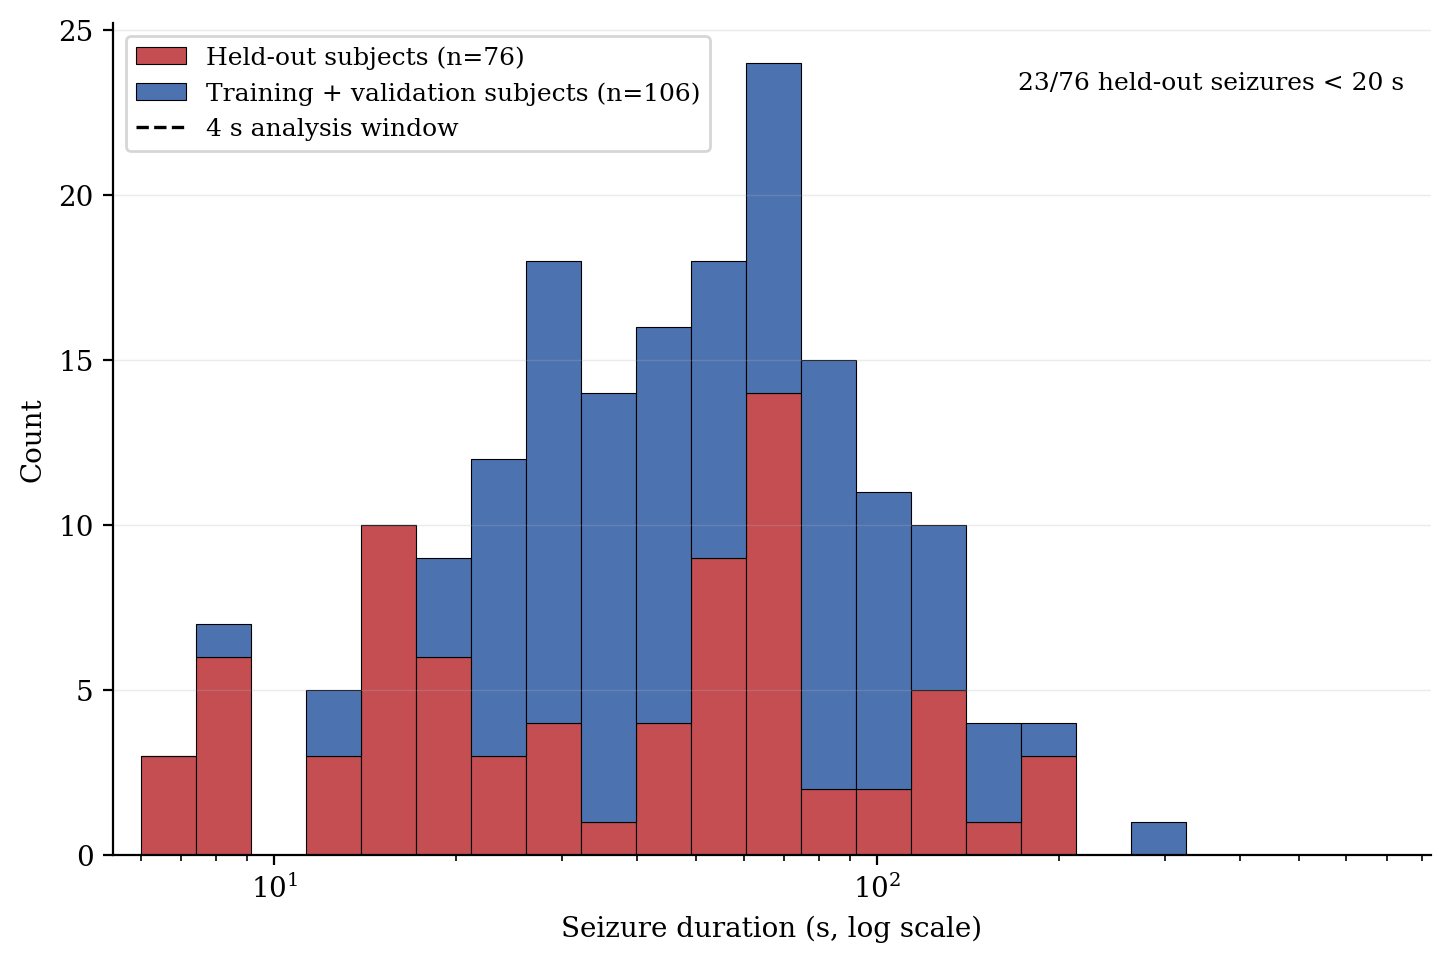
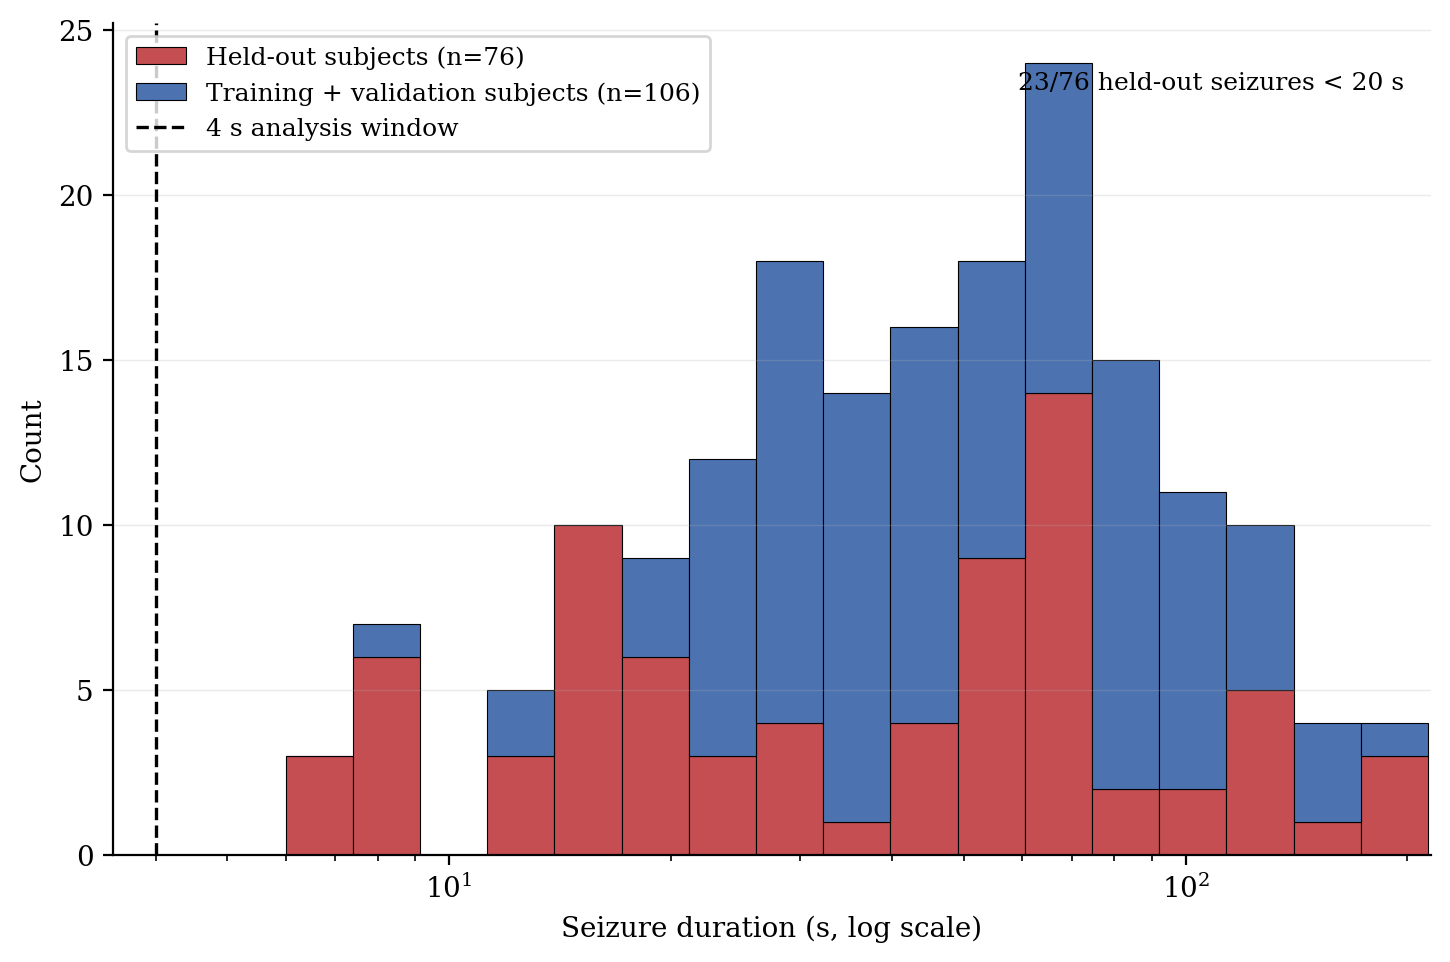
Round 5: fix seven figures, correct labeling docstring claim
- Fig 2.3: normalise raw/preprocessed spectra to their own peak (dB) instead of
  clipping the shared y-axis, so the 60 Hz notch and 60 Hz roll-off both show
  without falsely implying the band-pass stops at 30 Hz.
- Fig 3.4: rename internal branch shorthand (zrecon/zlatent/zgamma) to plain
  labels; add szcore_eval.per_interval_match to report the scorer's own
  per-interval match assignment instead of reading it off the picture.
- Fig 2.10: rebuild as a ~5 minute zoom on one annotated seizure (was a
  near-duplicate of Fig 3.4's full-hour panel); drop "(recomputed)" from the
  legend.
- Fig 3.10: set the trace offset from each channel's peak-to-peak range over
  the whole view (not median std) so all six traces stay separated even at
  their largest excursions inside the false-positive interval; log whether the
  panel is raw or filtered (raw).
- Fig 3.15: move the in-image explanatory sentence to console output; give the
  diffuse/generalized group its own palette colour (DIFFUSE_GROUP) instead of
  reusing BEST_ACHIEVABLE's purple; log that synthetic_spread.csv's grid
  (1,2,4,12,18) genuinely differs from the discrimination experiment's
  pre-registered grid (1,2,4,8,12).
- Fig 2.2: extend the x-axis lower limit to 3.5 s so the 4 s analysis-window
  reference line is drawn; clip the upper limit to just past the longest
  seizure.
- Fig 2.4: rotate panel (d)'s circular layout by +90 degrees so node 0
  (FP1-F7) starts at the top, matching panel (c)'s first row.
[…]

Changed region(s): [[0.0931, 0.0624, 0.9931, 0.9356], [0.5897, 0.9044, 0.6207, 0.9356]]

diff --git a/src/figures/fig2_10_changepoint_detection.py b/src/figures/fig2_10_changepoint_detection.py
@@ -1,6 +1,6 @@
 """
 fig2_10_changepoint_detection.py -- Fig 2.10, docs/FIGURE_ROUND4.md §3 ("build by
-recomputation").
+recomputation"), rebuilt as a zoom per docs/FIGURE_ROUND5.md §3.
 
 Fused anomaly score against time in minutes, for one continuous chb13 recording,
 recomputed end-to-end (see continuous_rescore.py) rather than read from the committed
@@ -9,6 +9,14 @@ values, and drift by the number of artifact-rejected windows, so they cannot sup
 real time axis. Detected change points (cpd_pipeline_v14.detect_changepoints, locked
 defaults, "at the reported operating point") as vertical lines; the annotated seizure
 shaded in the ictal colour.
+
+docs/FIGURE_ROUND5.md §3: this figure previously showed the same full hour as the bottom
+panel of Fig 3.4, differing only in vertical lines vs. shaded bands -- two chapters
+printing almost the same picture. Fig 2.10 sits in the methodology chapter and exists to
+show what change-point detection DOES, so it is now a ~5 minute zoom centred on one
+annotated seizure of the same recording (the mechanism -- pre-shift level, the shift,
+the bracketing change points -- is legible at this scale in a way the full hour is not).
+Fig 3.4 keeps the full hour.
 
 Does NOT import szcore_eval.build_timeline_masked (forbidden for this figure by R4 §3.1).
 """
@@ -35,6 +43,8 @@ RAW_DIR = Path("F:/Study/Thesis/Dataset/CHB-MIT")
 SUBJ = "chb13"
 EDF_NAME = "chb13_62.edf"
 MIN_MAG_PCT, PEN_MULT = 50, 2.0   # the reported operating point
+ZOOM_SEIZURE_IDX = 0              # which of chb13_62.edf's three seizures to zoom on
+ZOOM_WINDOW_S = 300.0             # ~5 minutes, centred on that seizure's midpoint
 OUT = ROOT / "figures" / "fig2_10_changepoint_detection.png"
 
 
@@ -43,7 +53,7 @@ def main():
     calib = CR.fit_calibration()
     result = CR.score_continuous_file(RAW_DIR / SUBJ / EDF_NAME, calib)
     fused = result["fused"]
-    t_min = result["t_seconds"] / 60.0
+    t_seconds = result["t_seconds"]
 
     cps, smoothed = V14.detect_changepoints(fused, PEN_MULT, min_mag_pct=MIN_MAG_PCT,
                                             local_win=15, inter_mask=None)
@@ -53,23 +63,36 @@ def main():
     this = next(e for e in edfs if e["fname"] == EDF_NAME)
     seizures = this["seizures"]   # chb13_62.edf carries three annotated seizures
 
+    onset_s, offset_s = seizures[ZOOM_SEIZURE_IDX]
+    mid = (onset_s + offset_s) / 2.0
+    view_t0 = max(0.0, mid - ZOOM_WINDOW_S / 2.0)
+    view_t1 = min(result["n_windows"] * 4, mid + ZOOM_WINDOW_S / 2.0)
+
     print(f"[Fig 2.10] {SUBJ}/{EDF_NAME}: {result['n_windows']} windows recomputed, "
          f"no artifact rejection")
-    print(f"[Fig 2.10] change points detected at the reported operating point "
-         f"(min_mag_pct={MIN_MAG_PCT}, pen_mult={PEN_MULT}): {len(cp_seconds)}")
-    print(f"[Fig 2.10] change point times (s): {cp_seconds}")
+    print(f"[Fig 2.10] change points detected at the reported operating point over the "
+         f"FULL recording (min_mag_pct={MIN_MAG_PCT}, pen_mult={PEN_MULT}): "
+         f"{len(cp_seconds)} -- {cp_seconds}")
     print(f"[Fig 2.10] annotated seizures (onset_s, offset_s): {seizures}")
+    print(f"[Fig 2.10] zoomed on seizure index {ZOOM_SEIZURE_IDX} "
+         f"(onset={onset_s}s, offset={offset_s}s); view window "
+         f"[{view_t0:.0f}, {view_t1:.0f}] s (~{ZOOM_WINDOW_S:.0f}s)")
+    cp_in_view = [c for c in cp_seconds if view_t0 <= c <= view_t1]
+    print(f"[Fig 2.10] change points inside the zoom window: {cp_in_view}")
 
-    fig, ax = plt.subplots(figsize=(11, 5.2))
-    ax.plot(t_min, fused, color="#4C72B0", lw=0.8, label="Fused anomaly score (recomputed)")
-    for i, (onset_s, offset_s) in enumerate(seizures):
-        ax.axvspan(onset_s / 60.0, offset_s / 60.0, color=ICTAL, alpha=0.25,
-                  label="Annotated seizure" if i == 0 else None)
-    for i, cs in enumerate(cp_seconds):
-        ax.axvline(cs / 60.0, color=DETECTED, lw=1.1, ls="--",
+    mask = (t_seconds >= view_t0) & (t_seconds <= view_t1)
+    t_s_view = t_seconds[mask]
+    fused_view = fused[mask]
+
+    fig, ax = plt.subplots(figsize=(9.5, 5.0))
+    ax.plot(t_s_view, fused_view, color="#4C72B0", lw=1.0, label="Fused anomaly score")
+    ax.axvspan(onset_s, offset_s, color=ICTAL, alpha=0.25, label="Annotated seizure")
+    for i, cs in enumerate(cp_in_view):
+        ax.axvline(cs, color=DETECTED, lw=1.3, ls="--",
                   label="Detected change point" if i == 0 else None)
 
-    ax.set_xlabel("Time (minutes)")
+    ax.set_xlim(view_t0, view_t1)
+    ax.set_xlabel("Time (s)")
     ax.set_ylabel("Fused anomaly score")
     ax.legend(fontsize=8, loc="upper right")
     ax.grid(alpha=0.25, lw=0.5)
@@ -81,7 +104,9 @@ def main():
     print(f"[saved] {OUT.resolve()}")
 
     print("\n[CAPTION] "
-         f"Recording: {SUBJ}/{EDF_NAME}. Scores were recomputed on the continuous "
+         f"Recording: {SUBJ}/{EDF_NAME}, zoomed to a ~5 minute window "
+         f"[{view_t0:.0f}, {view_t1:.0f}] s centred on the annotated seizure at "
+         f"[{onset_s},{offset_s}] s. Scores were recomputed on the continuous "
          "recording with every window retained (no artifact rejection), using the "
          "study's fitted checkpoint, z-score statistics, robust-z calibration and "
          "latent-space covariance; they are not the source of any reported number.")

diff --git a/src/dataprep/plot_raw_vs_preprocessed.py b/src/dataprep/plot_raw_vs_preprocessed.py
@@ -202,39 +202,41 @@ def build_figure(raw, subject_id, edf_name, start_samp, dur_samp, processed_dir,
     # near Nyquist (~1e-19), which alone stretched the y-axis to ~21 empty decades and made
     # the real 60 Hz notch (which bottoms out around 1e-10, not 1e-19) invisible by
     # comparison. Fix: slice to the displayed 0-80 Hz band BEFORE autoscaling.
+    # docs/FIGURE_ROUND5.md §1: clipping the shared y-axis at a fixed floor (the R3 fix)
+    # cut the preprocessed curve off above ~30 Hz, making it look like the band-pass
+    # stops at 30 Hz rather than 60 Hz -- contradicting Table 2.5's 30-60 Hz gamma band.
+    # A lower floor is not the fix: the raw and preprocessed traces sit ~2-3 decades
+    # apart in absolute power (the z-scoring step rescales amplitude), so no single
+    # shared range shows both curves' full extent without truncating one of them.
+    # Fix: normalise EACH spectrum to its OWN peak (dB relative to that trace's own
+    # maximum) so both curves occupy the same range regardless of their absolute
+    # power difference -- the panel then shows exactly what it exists to show: the
+    # 60 Hz peak present in the raw trace and absent after filtering, and the roll-off
+    # above 60 Hz. Which normalisation was used is stated in the axis label itself.
     spec_i = channels.index(SPECTRUM_CHANNEL)
     f_raw_full, pxx_raw_full = welch(raw_uV[spec_i], fs=P.FS, nperseg=min(1024, dur_samp))
     f_pre_full, pxx_pre_full = welch(z[spec_i], fs=P.FS, nperseg=min(1024, dur_samp))
     band = f_raw_full <= 80.0
     f_raw, pxx_raw = f_raw_full[band], pxx_raw_full[band]
     f_pre, pxx_pre = f_pre_full[band], pxx_pre_full[band]
-    ax_psd.semilogy(f_raw, pxx_raw, color="#888888", lw=1.1, label=f"Raw ({SPECTRUM_CHANNEL})")
-    ax_psd.semilogy(f_pre, pxx_pre, color=INTERICTAL, lw=1.1,
-                    label=f"Preprocessed ({SPECTRUM_CHANNEL})")
+
+    db_raw = 10 * np.log10(pxx_raw / pxx_raw.max())
+    db_pre = 10 * np.log10(pxx_pre / pxx_pre.max())
+    print(f"[Fig 2.3 / panel c] normalisation: each trace expressed in dB relative to its "
+         f"OWN maximum (raw peak={pxx_raw.max():.3e}, preprocessed peak={pxx_pre.max():.3e} "
+         f"-- {pxx_raw.max() / pxx_pre.max():.1f}x apart in absolute power, which is why a "
+         f"shared floor could not show both curves)")
+
+    ax_psd.plot(f_raw, db_raw, color="#888888", lw=1.1, label=f"Raw ({SPECTRUM_CHANNEL})")
+    ax_psd.plot(f_pre, db_pre, color=INTERICTAL, lw=1.1,
+               label=f"Preprocessed ({SPECTRUM_CHANNEL})")
     ax_psd.axvline(60.0, color="#C44E52", ls="--", lw=1.0, label="60 Hz")
     ax_psd.set_xlim(0, 80)
-
-    ymin_data = min(pxx_raw.min(), pxx_pre.min())
-    ymax_data = max(pxx_raw.max(), pxx_pre.max())
-    y_top = 10 ** np.ceil(np.log10(ymax_data))
-    y_bottom = 10 ** np.floor(np.log10(ymin_data))
-    decades = np.log10(y_top) - np.log10(y_bottom)
-    if decades > 8:
-        # Still wider than "about six decades" (brief §1) with BOTH the raw curve's DC
-        # peak and the true 60 Hz notch floor kept on-screen -- clipping either away would
-        # hide a real feature the panel exists to show, so the floor is raised only enough
-        # to bring the span to 8 decades (closest defensible approach to "about six" that
-        # does not crop the notch minimum itself, which sits within 2 decades of that floor).
-        y_bottom = y_top / 10 ** 8
-        decades = 8.0
-    ax_psd.set_ylim(y_bottom, y_top)
-    print(f"[Fig 2.3 / panel c] y-axis clipped to {decades:.0f} decades "
-         f"[{y_bottom:.0e}, {y_top:.0e}] (was ~21 decades when autoscale saw the "
-         f"off-screen near-Nyquist floor); data range in the displayed 0-80 Hz band is "
-         f"[{ymin_data:.2e}, {ymax_data:.2e}]")
+    y_bottom = min(db_raw.min(), db_pre.min())
+    ax_psd.set_ylim(max(y_bottom, -80.0) - 2, 3)
 
     ax_psd.set_xlabel("Frequency (Hz)")
-    ax_psd.set_ylabel("Power spectral density (log scale)")
+    ax_psd.set_ylabel("Power spectral density (dB relative to each trace's own peak)")
     ax_psd.set_title("(c)")
     ax_psd.legend(fontsize=8, loc="upper right", framealpha=1.0)
 

diff --git a/src/figures/fig3_15_diffuseness.py b/src/figures/fig3_15_diffuseness.py
@@ -48,7 +48,7 @@ import matplotlib
 matplotlib.use("Agg")
 import matplotlib.pyplot as plt
 
-from palette import INTERICTAL, ICTAL, apply_rc
+from palette import INTERICTAL, ICTAL, DIFFUSE_GROUP, apply_rc
 
 ROOT = Path(_src).parent
 SYNTH_CSV = ROOT / "results" / "attribution_v6" / "synthetic_spread.csv"
@@ -83,6 +83,18 @@ def main():
     test_panel = synth[(synth.panel == "TEST") & (np.isclose(synth.alpha, 2.0))].sort_values("n_injected")
     if test_panel.empty:
         raise SystemExit(f"Fig 3.15: no TEST/alpha=2.0 rows in {SYNTH_CSV} -- stop")
+    # docs/FIGURE_ROUND5.md §5: synthetic_spread.csv's own grid is {1,2,4,12,18}, not
+    # {1,2,4,8,12} -- the pre-registered grid for the DISCRIMINATION experiment
+    # (synthetic_sanity.csv / docs/ATTRIBUTION_REPORT_PACK.md §2.6). The spread
+    # (diffuseness) experiment was run on its own, different grid
+    # (docs/ATTRIBUTION_REPORT_PACK.md §3.5 quotes it at |S|=1,2,4,12,18); this is a
+    # fact about that experiment's design, not a missing point, and no point at 8 is
+    # added here to make the two grids agree.
+    grid_here = sorted(int(x) for x in test_panel.n_injected.unique())
+    print(f"[Fig 3.15] synthetic_spread.csv injected-channel grid (TEST, alpha=2.0): "
+         f"{grid_here} -- differs from the discrimination experiment's pre-registered "
+         f"grid [1, 2, 4, 8, 12] (synthetic_sanity.csv); the two experiments were run "
+         f"on different grids, this is not an omission")
 
     summ = pd.read_csv(SUMMARY_CSV)
     row = summ[summ.panel == "spread focal vs generalized"]
@@ -144,11 +156,11 @@ def main():
     ax.axvline(divider_x, color="0.75", lw=1.0, ls=":", zorder=1)
 
     # Real diffuse (generalized) points -- categorical strip, jittered in x only.
-    ax.scatter(DIFFUSE_X + jitter_gen, persz_gen.spread, color="#6A3D9A", s=26, alpha=0.75,
+    ax.scatter(DIFFUSE_X + jitter_gen, persz_gen.spread, color=DIFFUSE_GROUP, s=26, alpha=0.75,
               edgecolor="black", linewidth=0.3,
               label=f"Real, diffuse / generalized (per seizure, n={len(persz_gen)})", zorder=4)
     ax.plot([DIFFUSE_X - JITTER_HALF_WIDTH - 0.35, DIFFUSE_X + JITTER_HALF_WIDTH + 0.35],
-           [generalized, generalized], color="#6A3D9A", lw=2.2, solid_capstyle="butt", zorder=5,
+           [generalized, generalized], color=DIFFUSE_GROUP, lw=2.2, solid_capstyle="butt", zorder=5,
            label=f"Diffuse/generalized group mean ({generalized:.4f})")
 
     ax.set_xticks(NUMERIC_TICKS + [DIFFUSE_X])
@@ -158,14 +170,12 @@ def main():
     ax.set_xlabel("Number of annotated channels")
     ax.set_ylabel("Diffuseness (spread)")
 
-    ax.text(0.5, 0.02, f"generalized mean sits LOWER than focal "
-           f"({generalized:.4f} < {focal:.4f}, one-sided p={p_perm:.3f}) "
-           "-- the wrong direction for the hypothesis",
-           transform=ax.transAxes, ha="center", va="bottom", fontsize=8.5, color="0.25")
-
-    # No figure number / descriptive title, and no restated-caption text box
-    # on the image (brief §1 rule 5) -- the focal-vs-generalized comparison
-    # is printed to console above and belongs in the report's caption.
+    # docs/FIGURE_ROUND5.md §5: the explanatory sentence used to sit inside the image as
+    # an axes text box. No figure in this report carries a sentence of prose inside the
+    # axes -- moved out, printed to console below as caption text instead.
+    print(f"[CAPTION] generalized mean sits LOWER than focal "
+         f"({generalized:.4f} < {focal:.4f}, one-sided p={p_perm:.3f}) -- the wrong "
+         "direction for the hypothesis.")
     ax.legend(fontsize=7.8, loc="upper center", ncol=2)
     ax.grid(alpha=0.25, lw=0.5)
 

diff --git a/src/figures/fig3_10_false_positive_eeg.py b/src/figures/fig3_10_false_positive_eeg.py
@@ -99,6 +99,12 @@ def main():
     ax_score.grid(alpha=0.2, lw=0.4)
 
     # ---- panel (b): raw EEG, six channels, concurrent with the score window ----
+    # docs/FIGURE_ROUND5.md §4: P.open_edf only reads and renames channels -- it applies
+    # no band-pass/notch filtering (that happens later, in the windowing pipeline, not
+    # here) -- so this panel shows the RAW recording, not the band-pass filtered signal.
+    # The microvolt scale bar confirms it is not the z-scored version either.
+    print("[Fig 3.10] signal panel: RAW recording (P.open_edf applies no filtering; "
+         "amplitude in microvolts, not the z-scored version)")
     raw = P.open_edf(RAW_DIR / SUBJ / EDF_NAME)
     channels = P.COMMON_CHANNELS[:N_CHANNELS]
     ch_idx = [raw.ch_names.index(c) for c in channels]
@@ -106,7 +112,17 @@ def main():
     seg_uV = raw.get_data(picks=ch_idx, start=s0, stop=s1) * 1e6
     t_axis = view_t0 + np.arange(seg_uV.shape[1]) / P.FS
 
-    offset = 4.0 * np.median(np.std(seg_uV, axis=1))
+    # docs/FIGURE_ROUND5.md §4: the six traces were overlapping into a solid block. An
+    # offset set from the median standard deviation understates the separation needed,
+    # because amplitude inside the false-positive interval itself can run far larger
+    # than the window's typical spread. Use each channel's own peak-to-peak range over
+    # the WHOLE displayed window (not just its std) and set the offset above the largest
+    # of those, so no two traces can touch anywhere in the view, including at their
+    # largest excursions inside the shaded interval.
+    ptp = seg_uV.max(axis=1) - seg_uV.min(axis=1)
+    offset = 1.15 * ptp.max()
+    print(f"[Fig 3.10] per-channel peak-to-peak in view (uV): "
+         f"{dict(zip(channels, np.round(ptp, 1)))}; vertical offset set to {offset:.1f} uV")
     for i, ch in enumerate(channels):
         y = seg_uV[N_CHANNELS - 1 - i] + i * offset
         ax_sig.plot(t_axis, y, color=INTERICTAL, lw=0.6)

diff --git a/src/figures/fig3_4_detection_output.py b/src/figures/fig3_4_detection_output.py
@@ -56,11 +56,25 @@ def main():
     print(f"[Fig 3.4] score vs annotation: tp={sc['tp']} fp={sc['fp']} "
          f"n_ref={sc['n_ref']} n_hyp={sc['n_hyp']}")
 
+    # docs/FIGURE_ROUND5.md §2: the match assignment comes from the scorer itself
+    # (timescoring's own tpMask, exposed by szcore_eval.per_interval_match), not from
+    # reading the picture -- one detection starts close to the end of the first
+    # annotated seizure and whether that counts as a match depends on the tolerance
+    # rule, not on how it looks.
+    per_iv = SE.per_interval_match(seizures, events, result["n_windows"] * 4)
+    print(f"[Fig 3.4] per-interval match assignment, from the scorer "
+         f"(note: the scorer merges/splits intervals per its own "
+         f"minDurationBetweenEvents/maxEventDuration rules before matching, so this "
+         f"list may not be 1:1 with the {len(events)} detected intervals above):")
+    for iv in per_iv:
+        print(f"    [{iv['onset_s']:.0f}, {iv['end_s']:.0f}] s -> "
+             f"{'MATCHED (true positive)' if iv['matched'] else 'false positive'}")
+
     fig, axes = plt.subplots(4, 1, figsize=(11, 10), sharex=True,
                              gridspec_kw={"height_ratios": [1, 1, 1, 1.3]})
-    comp_names = [("zrecon", "GAE reconstruction (zrecon)"),
-                 ("zlatent", "Latent Mahalanobis (zlatent)"),
-                 ("zgamma", "Gamma-band AEC (zgamma)")]
+    comp_names = [("zrecon", "Reconstruction error (standardised)"),
+                 ("zlatent", "Latent Mahalanobis distance (standardised)"),
+                 ("zgamma", "Gamma-band amplitude coupling (standardised)")]
     for ax, (key, label) in zip(axes[:3], comp_names):
         ax.plot(t_min, result[key], color="#4C72B0", lw=0.7)
         ax.set_ylabel(label, fontsize=8.5)

diff --git a/src/szcore_eval.py b/src/szcore_eval.py
@@ -282,6 +282,31 @@ def score_szcore(ref_intervals, hyp_intervals, total_dur_s, n_inter_h):
                 fp_rate_full=float(s.fpRate))
 
 
+def per_interval_match(ref_intervals, hyp_intervals, total_dur_s):
+    """Per-HYP-interval match assignment, straight from the timescoring library's own
+    EventScoring object (docs/FIGURE_ROUND5.md §2: "I need the assignment from the
+    scorer, not from reading the picture") -- not a re-implementation of the tolerance
+    rule. EventScoring already builds `tpMask`, a per-sample mask of where a reference
+    event (extended by toleranceStart/toleranceEnd) was matched by the hyp mask; a hyp
+    event is a false positive exactly where the library's own FP-counting loop says so
+    (none of its samples fall in tpMask). This only reads that mask back out per hyp
+    event instead of just the aggregate counts score_szcore returns.
+
+    Returns a list of dicts, one per hyp interval (in `hyp_intervals` order):
+        {onset_s, end_s, matched (bool)}
+    """
+    fs = 1
+    N = max(int(total_dur_s), 1)
+    ref = Annotation(list(ref_intervals), fs, N)
+    hyp = Annotation(list(hyp_intervals), fs, N)
+    s = scoring.EventScoring(ref, hyp, SZ_PARAM)
+    out = []
+    for (h0, h1) in s.hyp.events:
+        matched = bool(np.any(s.tpMask[round(h0 * s.fs):round(h1 * s.fs)]))
+        out.append({"onset_s": h0, "end_s": h1, "matched": matched})
+    return out
+
+
 def matched_latency(ref_intervals, hyp_intervals, tol_start=30, tol_end=60):
     """Mean (hyp_onset - ref_onset) over reference events that have an
     overlapping hypothesis event within SzCORE tolerance. Negative = early."""

diff --git a/src/labeling/label_eeg_pilot.py b/src/labeling/label_eeg_pilot.py
@@ -1,10 +1,12 @@
 """
 ================================================================================
- label_eeg_pilot.py  —  BLIND channel-labeling viewer for PREREG_05 (§7)
+ label_eeg_pilot.py  —  channel-labeling viewer
 ================================================================================
-Shows RAW scalp EEG around each seizure so the reader can mark the suspect
-bipolar derivation(s), exactly the way a clinician reads ictal EEG. It displays
-NO model / GAE / per-node output — the annotation must stay blind (PREREG_05 §2.3).
+Renders segments of the raw scalp EEG recording around each seizure so the reader
+can mark the suspect bipolar derivation(s), exactly the way a clinician reads
+ictal EEG. It reads the recordings and the summary timings only, and never any
+model output. The annotations produced from this script are an AI draft, not
+blind and not supervisor-frozen; authority rests with the supervisor.
 
 What it does, per subject:
   1. Reads the subject's summary, enumerates seizures in the SAME global order the
@@ -21,7 +23,8 @@ What it does, per subject:
   3. Writes/updates labels_{subj}.csv with one row per seizure, meta pre-filled,
      label columns BLANK for the reader to fill (primary_ch, secondary_ch, ...).
 
-It never reads pernode / ensemble / any results file. Blind by construction.
+It never reads pernode / ensemble / any results file, and the annotations it
+produces are an AI draft, not blind and not supervisor-frozen.
 
 USAGE (Cursor / CPU)
   pip install mne scipy matplotlib numpy

diff --git a/src/figures/fig2_2_seizure_durations.py b/src/figures/fig2_2_seizure_durations.py
@@ -93,7 +93,13 @@ def main():
                   f"Training + validation subjects (n={len(other_dur)})"])
 
     ax.set_xscale("log")
-    ax.set_xlim(all_dur.min() * 0.9, all_dur.max() * 1.1)
+    # docs/FIGURE_ROUND5.md §6: the axis previously started at all_dur.min()*0.9 = 5.4 s,
+    # so the "4 s analysis window" legend entry fell outside the plotted range and never
+    # appeared -- a meaningful reference (the shortest annotated seizure is barely longer
+    # than one and a half analysis windows) silently dropped. Lower limit extended to
+    # 3.5 s so the line is drawn; upper limit clipped to just past the longest seizure
+    # (205 s) rather than the previous *1.1 padding, which ran well past the last bar.
+    ax.set_xlim(3.5, 215.0)
     ax.axvline(4.0, color="black", ls="--", lw=1.2, label="4 s analysis window")
     n_short = int((held_dur < 20).sum())
     # Moved clear of the 4 s line (docs/FIGURE_FIXES_R3.md §1): the previous placement sat

diff --git a/src/figures/fig2_4_graph_construction.py b/src/figures/fig2_4_graph_construction.py
@@ -115,7 +115,11 @@ def main():
     G = nx.from_numpy_array(A_topk)
     G = nx.relabel_nodes(G, {i: channels[i] for i in range(len(channels))})
     n = len(channels)
-    angles = np.linspace(0, 2 * np.pi, n, endpoint=False)
+    # docs/FIGURE_ROUND5.md §7: node 0 (channels[0] == "FP1-F7") is already first in the
+    # cyclic order shared with panel (c)'s top row, but angle 0 places it at 3 o'clock,
+    # not at the top -- a one-line +pi/2 rotation puts it at 12 o'clock instead, so the
+    # visual starting point matches panel (c)'s first row without changing the order.
+    angles = np.linspace(0, 2 * np.pi, n, endpoint=False) + np.pi / 2
     pos = {channels[i]: (np.cos(angles[i]), np.sin(angles[i])) for i in range(n)}
     label_pos = {channels[i]: (1.18 * np.cos(angles[i]), 1.18 * np.sin(angles[i])) for i in range(n)}
     weights = [G[u][v]["weight"] for u, v in G.edges()]

diff --git a/src/figures/palette.py b/src/figures/palette.py
@@ -16,6 +16,10 @@ DETECTED = "#55A868"     # green
 CHANCE = "#8C8C8C"       # grey, dashed
 HEADLINE = "#B8860B"     # dark goldenrod -- the one operating point every figure marks
 BEST_ACHIEVABLE = "#6A3D9A"  # purple -- the post-hoc best point, never a result
+# docs/FIGURE_ROUND5.md §5: the diffuse/generalized group in Fig 3.15 was drawn in this
+# same purple, which is reserved for BEST_ACHIEVABLE elsewhere in the figure set --
+# reusing it for an unrelated category breaks the one meaning that colour carries.
+DIFFUSE_GROUP = "#B07AA1"  # muted mauve -- Fig 3.15's diffuse/generalized annotation group
 
 # One sequential colormap for every adjacency / band-power heatmap in the report
 # (docs/FIGURE_FIXES_R3.md §1, Fig 2.4): Fig 1.2, Fig 2.4 panels (b)/(c), Fig 2.5.
